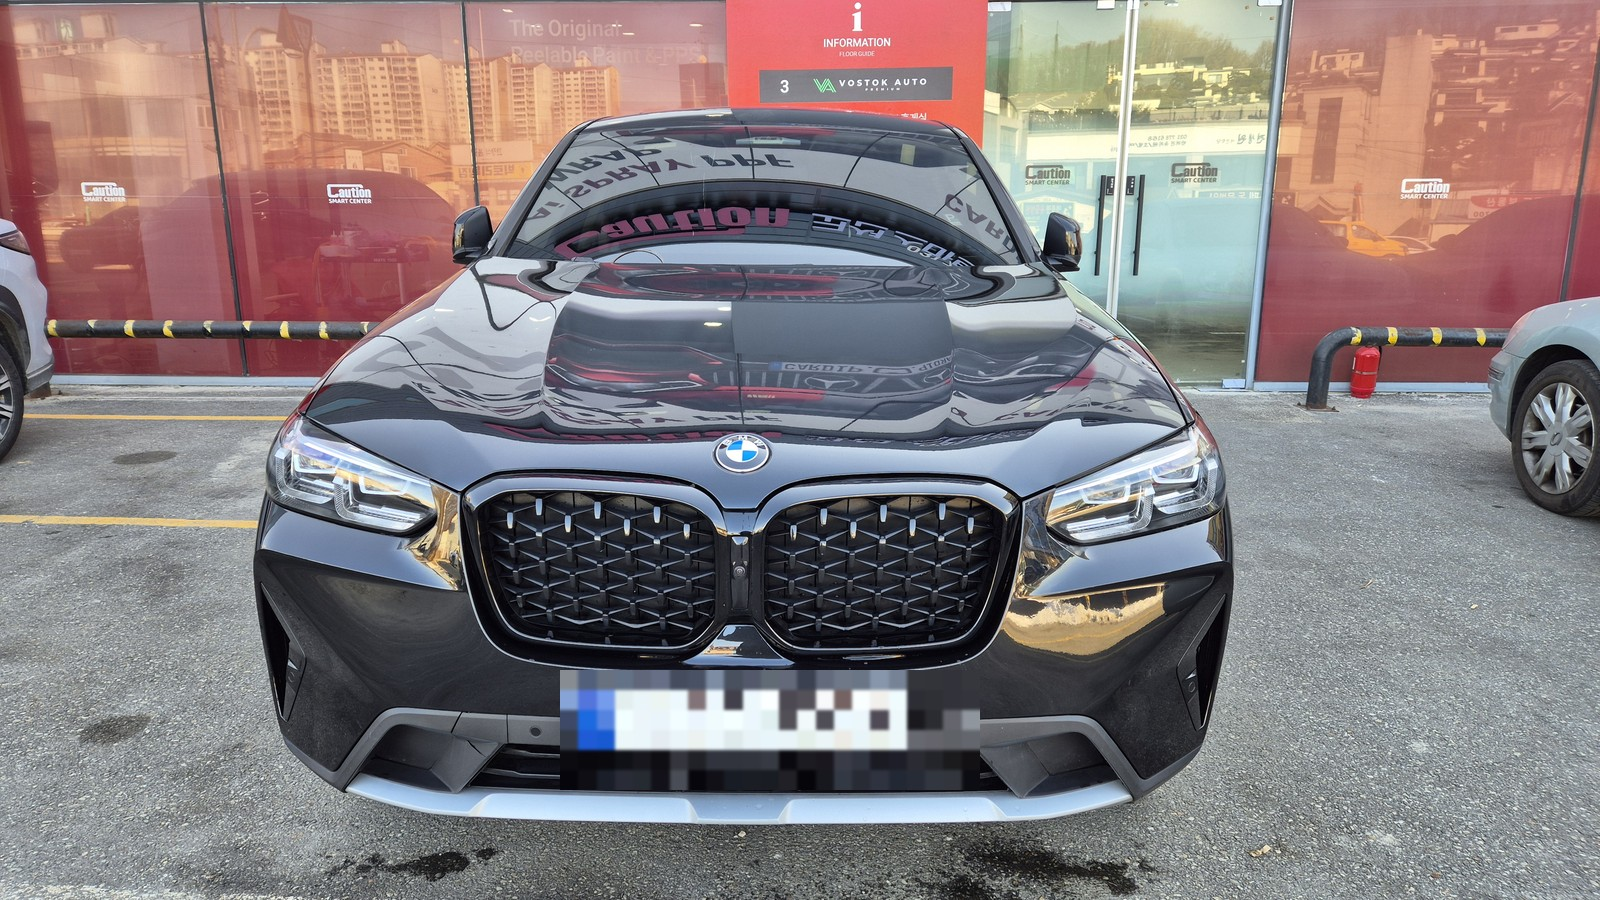
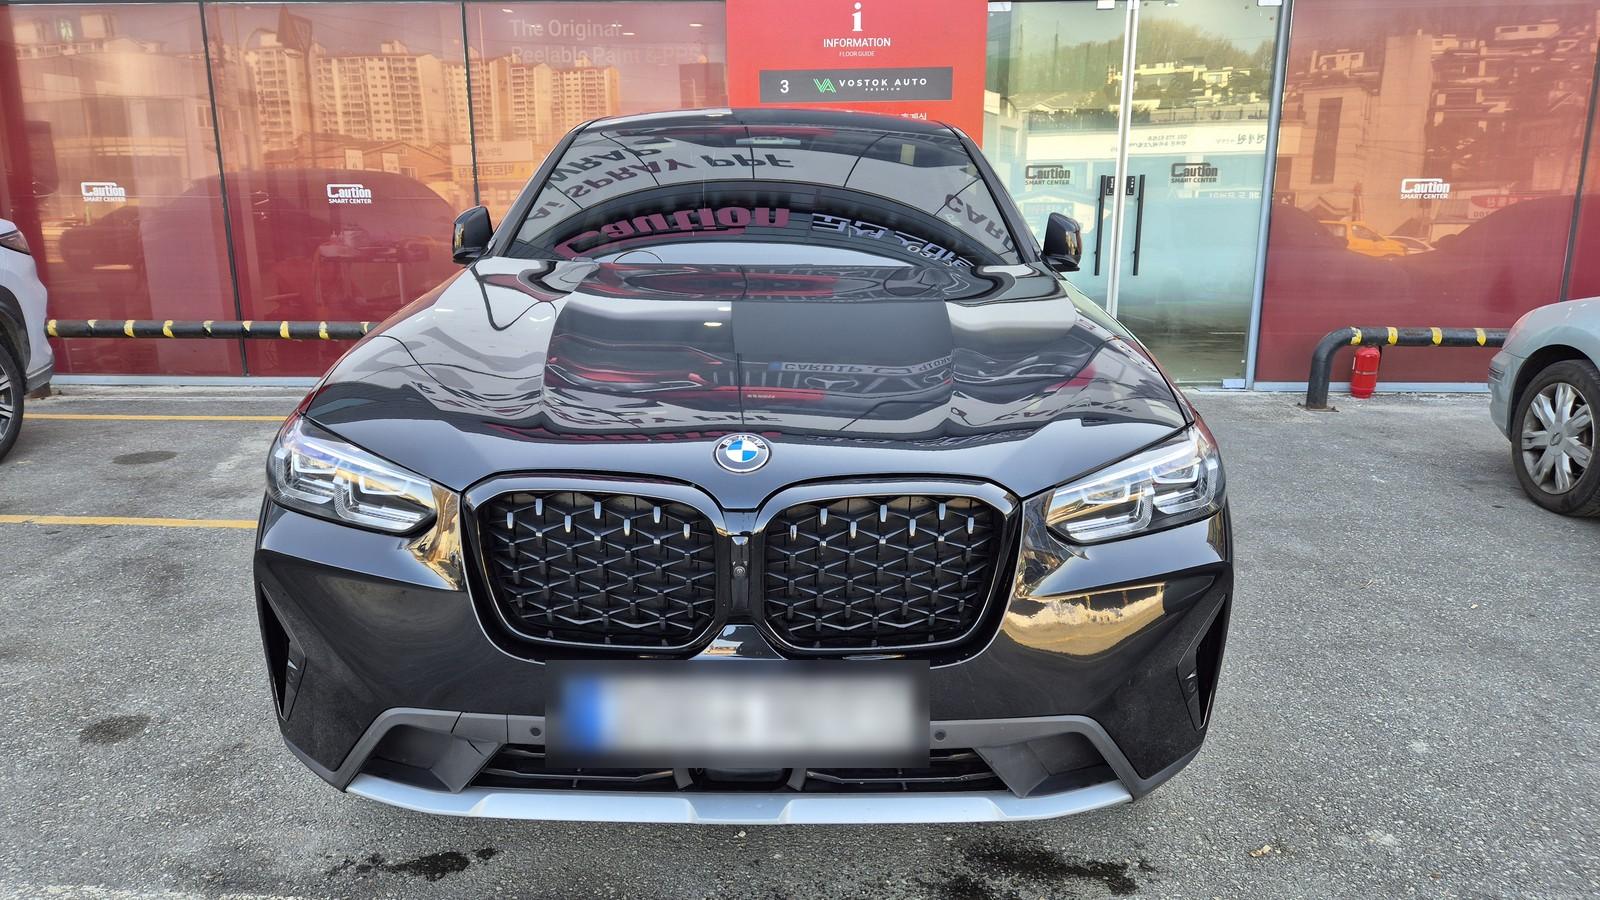
fix: BMW X4 번호판 모자이크 보완 및 동일각도 전후 비교 사진·설명 재구성

Changed region(s): [[0.3438, 0.7156, 0.625, 0.9022]]

diff --git a/src/config/portfolioData.ts b/src/config/portfolioData.ts
@@ -483,22 +483,22 @@ export const PORTFOLIO_DATA: PortfolioItem[] = [
     id: 'paint-bmw-x4',
     category: 'paint',
     categoryName: '판금도색',
-    title: 'BMW X4 xDrive M 스포츠 프론트 범퍼 및 휀더 정밀 판금도색 복원',
-    carModel: 'BMW X4 xDrive20d M Sport (G02)',
+    title: 'BMW X4 xDrive 프론트 범퍼 코너 및 휀더 정밀 판금도색 복원',
+    carModel: 'BMW X4 xDrive (G02 LCI)',
     image: '/images/portfolio/paint_bmw_x4/01.jpg',
     images: [
-      '/images/portfolio/paint_bmw_x4/01.jpg', // [1. 정면 메인] M 키드니 그릴 및 입체적 프론트 뷰 정면 풀샷
-      '/images/portfolio/paint_bmw_x4/02.jpg', // [2. 사고부위] 코너 접촉사고로 긁힌 범퍼 하단 및 휠하우스 아치 몰딩 손상
-      '/images/portfolio/paint_bmw_x4/03.jpg', // [3. 전과 후] 범퍼 통탈거 후 내부 서포트 프레임 판금 및 샌딩 공정
-      '/images/portfolio/paint_bmw_x4/04.jpg', // [4. 작업완료] 굴곡진 에어커튼 엣지까지 단차 0% 신차급 복원 완료 디테일
-      '/images/portfolio/paint_bmw_x4/05.jpg'  // [5. 전경 사진] 코션스마트센터 전면 야외 전경 풀샷
+      '/images/portfolio/paint_bmw_x4/01.jpg', // [1. 정면 메인] 작업 완료 후 센터 앞 정면 풀샷
+      '/images/portfolio/paint_bmw_x4/02.jpg', // [2. 사고부위] 입고 당시 우측 범퍼 에어커튼 엣지 도장 깨짐·크랙 클로즈업
+      '/images/portfolio/paint_bmw_x4/03.jpg', // [3. 전과 후] 동일 각도 BEFORE(입고) | AFTER(출고) 비교
+      '/images/portfolio/paint_bmw_x4/04.jpg', // [4. 작업완료] 같은 에어커튼 엣지 부위 복원 완료 클로즈업
+      '/images/portfolio/paint_bmw_x4/05.jpg'  // [5. 전경 사진] 코션스마트센터 건물 앞 출고 전경
     ],
-    tags: ['BMW X4', 'M스포츠', '프론트 범퍼 복원', '대물보험처리', '판금도색'],
-    summary: '측면 접촉사고로 손상된 M 에어로다이내믹 범퍼와 휀더를 통탈거 정밀 교정 및 수용성 도색으로 원형 100% 리스토어',
+    tags: ['BMW X4', '프론트 범퍼 복원', '휀더 도색', '대물보험처리', '판금도색'],
+    summary: '접촉사고로 우측 프론트 범퍼 코너(에어커튼 엣지)의 도장이 깨지고 휀더 라인까지 긁힌 차량을, 손상부 정밀 보수와 블랙 사파이어 조색 도장으로 원래 모습 그대로 복원',
     details: [
-      'BMW 공식 지정 도료 조색 데이터베이스를 기반으로 블랙 사파이어 메탈릭 1:1 완벽 매칭',
-      '내부 레이더 센서 및 초음파 파킹 센서 브라켓 정위치 재정렬 및 주행 보조 캘리브레이션',
-      '정밀 샌딩과 서페이서 하지 공정을 통한 단차 0% 매끄러운 굴곡 라인 재건'
+      '입고 진단: 우측 범퍼 에어커튼 하단 엣지 도장 깨짐·크랙, 범퍼-휀더 경계 라인 긁힘 확인 (KB 대물보험 처리)',
+      '손상부 샌딩 → 퍼티·서페이서 하지 작업으로 에어커튼 엣지 굴곡 라인 재성형 후 블랙 사파이어 메탈릭 1:1 조색 도장',
+      '출고 전 동일 각도 비교 촬영으로 색상 차이·단차 없이 복원된 것을 확인 후 고객 인도'
     ],
     linkType: 'blog',
     linkUrl: OFFICIAL_LINKS.blog,
